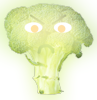
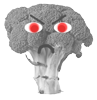
Made horv reasonable size.

diff --git a/get_rect/core/src/se/chalmers/get_rect/game/entities/npc/model/Horv.java b/get_rect/core/src/se/chalmers/get_rect/game/entities/npc/model/Horv.java
@@ -17,7 +17,7 @@ public class Horv extends AbstractNPCModel {
     private List<String> dialogList;
     private int dialogNr = 0;
 
-    public Horv(Point point, IRectangleFactoryAdapter rectangleFactory, IRepository dialogRepository, int width, int height) {
+    public Horv(Point point, IRectangleFactoryAdapter rectangleFactory, IRepository<String> dialogRepository, int width, int height) {
         super(point, new Point(0, 0), false, true, rectangleFactory);
         this.width = width;
         this.height = height;
@@ -31,8 +31,8 @@ public class Horv extends AbstractNPCModel {
             System.out.println(e.getMessage());
         }
     }
-    public Horv(Point point, IRectangleFactoryAdapter rectangleFactory, IRepository dialogRepository) {
-        this(point, rectangleFactory, dialogRepository, 150, 300);
+    public Horv(Point point, IRectangleFactoryAdapter rectangleFactory, IRepository<String> dialogRepository) {
+        this(point, rectangleFactory, dialogRepository, 58, 158);
     }
     @Override
     public void update(double delta) {

diff --git a/get_rect/core/src/se/chalmers/get_rect/game/entities/npc/view/HorvView.java b/get_rect/core/src/se/chalmers/get_rect/game/entities/npc/view/HorvView.java
@@ -3,28 +3,17 @@ package se.chalmers.get_rect.game.entities.npc.view;
 import se.chalmers.get_rect.adapters.IGraphicsAdapter;
 import se.chalmers.get_rect.game.entities.AbstractAnimatedView;
 import se.chalmers.get_rect.game.entities.npc.model.Horv;
-import se.chalmers.get_rect.utilities.Point;
 
 public class HorvView extends AbstractAnimatedView{
     private static final int DEFAULT = 1;
-    private static final int SHOW_BEER = 2;
-
 
     public HorvView(Horv model) {
         super(model, DEFAULT);
-        super.setDrawOffset(new Point(0, -20));
-        addAnimationFrame(DEFAULT, "img/entities/horv/horv1.png");
-        addAnimationFrame(SHOW_BEER, "img/entities/horv/horv2.png");
+        addAnimationFrame(DEFAULT, "img/entities/horv/horv.png");
     }
 
     @Override
     public void draw(IGraphicsAdapter graphics) {
-        if (true) {
-            addAnimationFrame(0, "img/interact/exclamation.png");
-            playSequence(SHOW_BEER);
-        } else {
-            playSequence(DEFAULT);
-        }
         super.draw(graphics);
     }
 }

diff --git a/get_rect/core/src/se/chalmers/get_rect/game/quests/QuestRepository.java b/get_rect/core/src/se/chalmers/get_rect/game/quests/QuestRepository.java
@@ -3,7 +3,6 @@ package se.chalmers.get_rect.game.quests;
 import com.google.inject.Inject;
 import se.chalmers.get_rect.game.quests.data.IQuest;
 import se.chalmers.get_rect.game.quests.data.Objective;
-import se.chalmers.get_rect.game.quests.data.Quest;
 import se.chalmers.get_rect.game.quests.data.QuestState;
 
 import java.util.ArrayList;
@@ -16,10 +15,11 @@ public class QuestRepository {
         // todo: read this from JSON
 
         List<Objective> objectives = new ArrayList<>();
-        objectives.add(new Objective("zombie", "died", 5, 0));
+        objectives.add(new Objective("zombie", "died", 5, 0, "Ninja-Broccolis killed"));
+        objectives.add(new Objective("sandCastle", "interacted", 1, 0, "Construct a magnificent sand castle"));
 
         String acceptText = "Hej!";
-        String completionText = "Tack!";
+        String completionText = "I'M OUTTA HERE! LOLWUT";
         return factory.make(0, QuestState.AVAILABLE, objectives, acceptText, completionText);
     }
 }

diff --git a/get_rect/core/src/se/chalmers/get_rect/game/quests/data/Objective.java b/get_rect/core/src/se/chalmers/get_rect/game/quests/data/Objective.java
@@ -3,16 +3,18 @@ package se.chalmers.get_rect.game.quests.data;
 import se.chalmers.get_rect.event.Event;
 
 public class Objective {
+    private String infoText;
     private String type;
     private String action;
     private int count;
     private int requiredCount;
 
-    public Objective(String type, String action, int requiredCount, int count) {
+    public Objective(String type, String action, int requiredCount, int count, String infoText) {
         this.type = type;
         this.action = action;
         this.count = count;
         this.requiredCount = requiredCount;
+        this.infoText = infoText;
     }
 
     public void handleEvent(Event e) {
@@ -27,5 +29,9 @@ public class Objective {
 
     public boolean isCompleted() {
         return count == requiredCount;
+    }
+
+    public String getInfoText() {
+        return infoText;
     }
 }

diff --git a/get_rect/core/src/se/chalmers/get_rect/game/quests/data/IQuest.java b/get_rect/core/src/se/chalmers/get_rect/game/quests/data/IQuest.java
@@ -3,12 +3,15 @@ package se.chalmers.get_rect.game.quests.data;
 
 import se.chalmers.get_rect.event.IEventListener;
 
+import java.util.List;
+
 public interface IQuest extends IEventListener {
     int getId();
     QuestState getState();
     void interact(CompleteAction action);
     String getAcceptText();
     String getCompletionText();
+    List<Objective> getObjectives();
 
     interface CompleteAction {
         void complete();

diff --git a/get_rect/core/src/se/chalmers/get_rect/game/GameConfig.java b/get_rect/core/src/se/chalmers/get_rect/game/GameConfig.java
@@ -20,7 +20,7 @@ public class GameConfig {
     public static final boolean SHOW_FPS = true;
 
     // Debug booleans
-    public static final boolean DISABLE_ALL = false;
+    public static final boolean DISABLE_ALL = true;
 
 
     public static final boolean PRINT_CONTROLLERVALUES = true;

diff --git a/get_rect/core/src/se/chalmers/get_rect/game/entities/worldObjects/model/SandCastle.java b/get_rect/core/src/se/chalmers/get_rect/game/entities/worldObjects/model/SandCastle.java
@@ -15,6 +15,8 @@ public class SandCastle extends AbstractInteractableModel {
 
     @Override
     public void onInteract(IModel model) {
+        triggerEvent("sandCastle", "interacted");
+
         if (!interactedWith){
             interactedWith = true;
         }

diff --git a/get_rect/core/src/se/chalmers/get_rect/game/quests/data/Quest.java b/get_rect/core/src/se/chalmers/get_rect/game/quests/data/Quest.java
@@ -30,6 +30,11 @@ public class Quest implements IQuest {
     }
 
     @Override
+    public List<Objective> getObjectives() {
+        return objectives;
+    }
+
+    @Override
     public int getId() {
         return id;
     }
